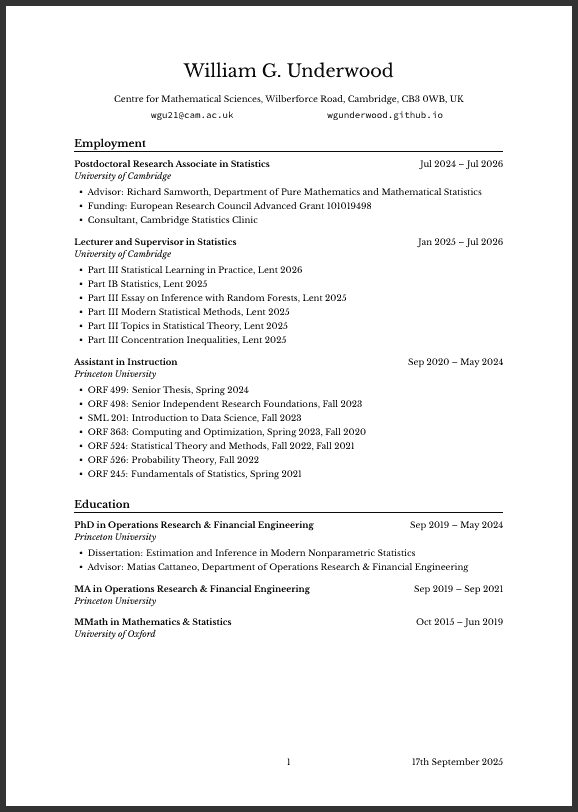
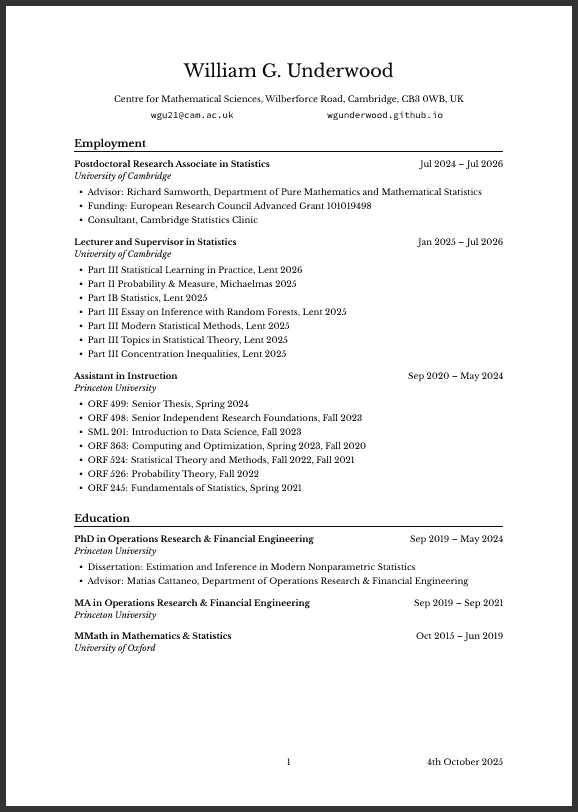
Probability and measure supervisions

Changed region(s): [[0.1246, 0.3387, 0.872, 0.8005], [0.7163, 0.431, 0.872, 0.4926], [0.7163, 0.9236, 0.8097, 0.9544]]

diff --git a/WGUnderwood.tex b/WGUnderwood.tex
@@ -40,6 +40,9 @@
     Part III Statistical Learning in Practice, Lent 2026
 
   \item
+    Part II Probability \& Measure, Michaelmas 2025
+
+  \item
     Part IB Statistics, Lent 2025
 
   \item
